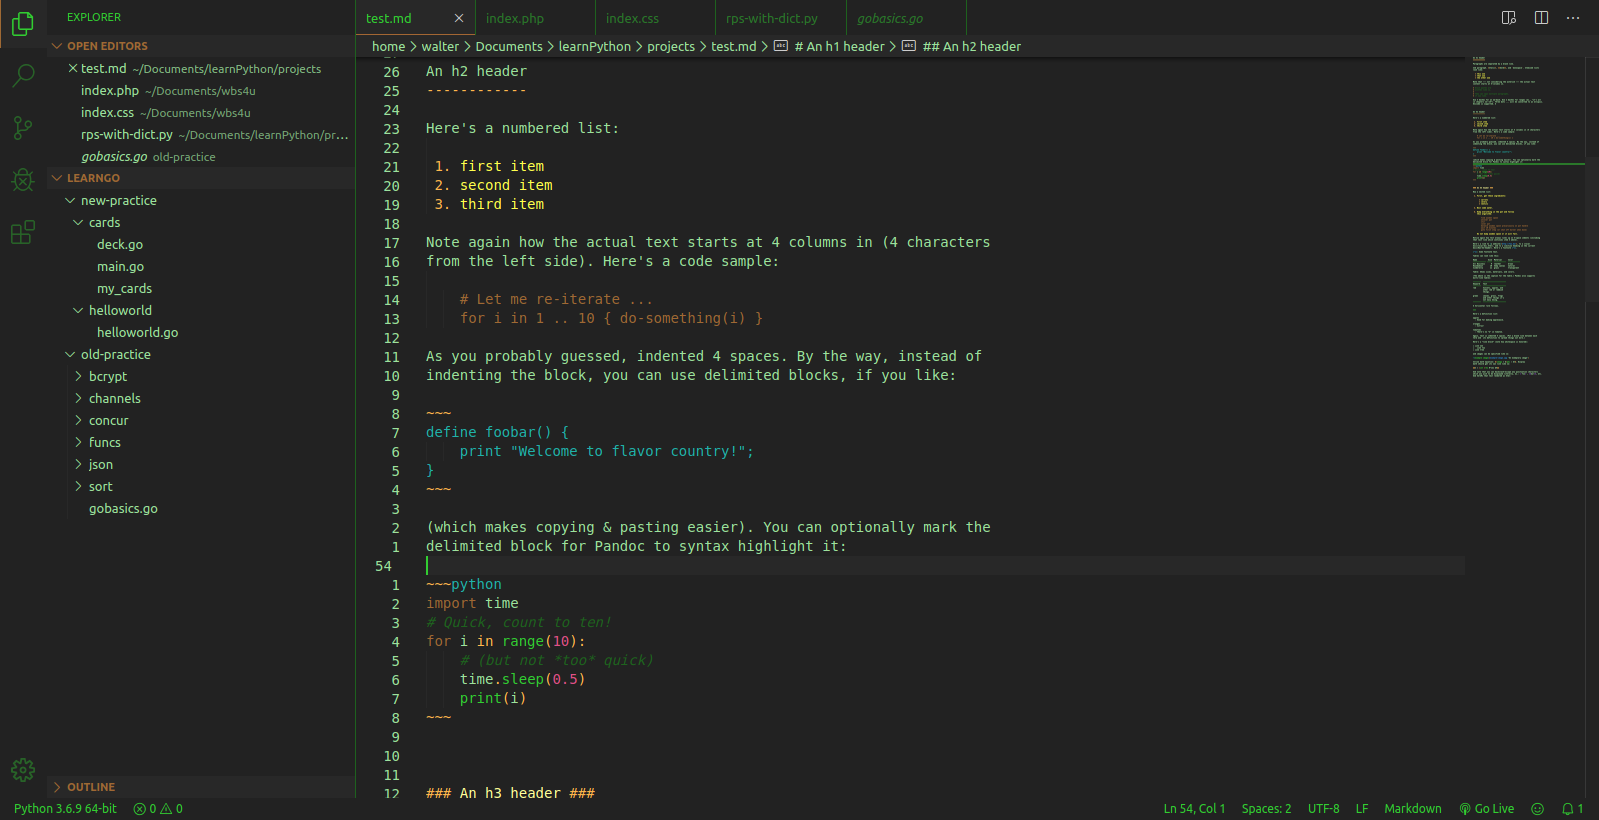
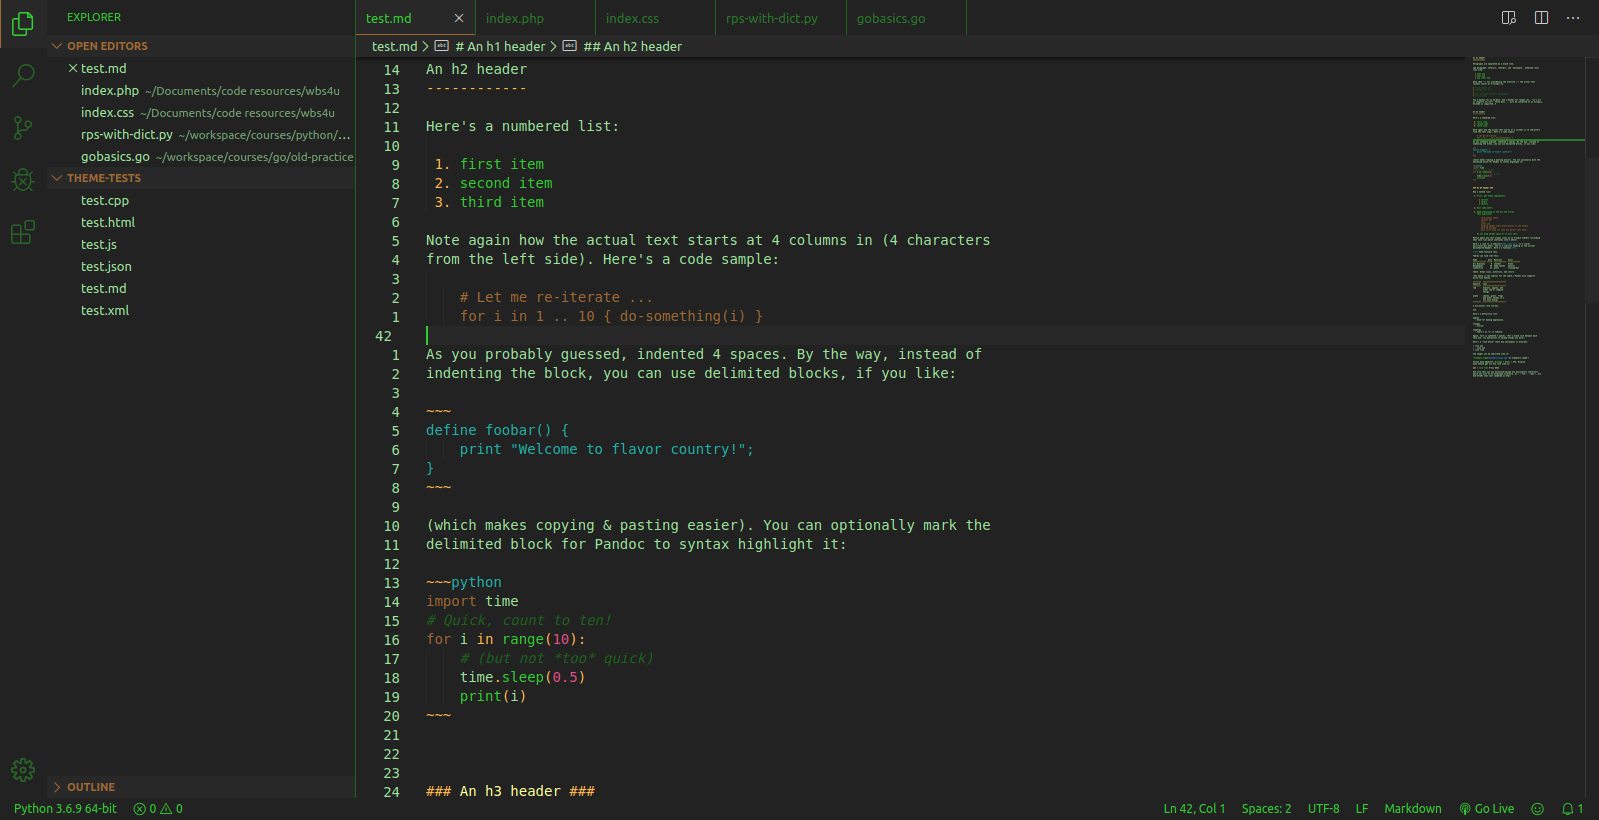
Add files via upload

diff --git a/CHANGELOG.md b/CHANGELOG.md
@@ -9,3 +9,9 @@
 * Fixed credit link for icon
 * Modified preview
 * Started using changelog for updates
+
+### Jan 07 2020
+* Made attribute name in html brown instead of green to separate the colors better
+* Made lists in markdown green instead of yellow
+* Made table separators yellow instead of green
+* Added color to string literals in JS
